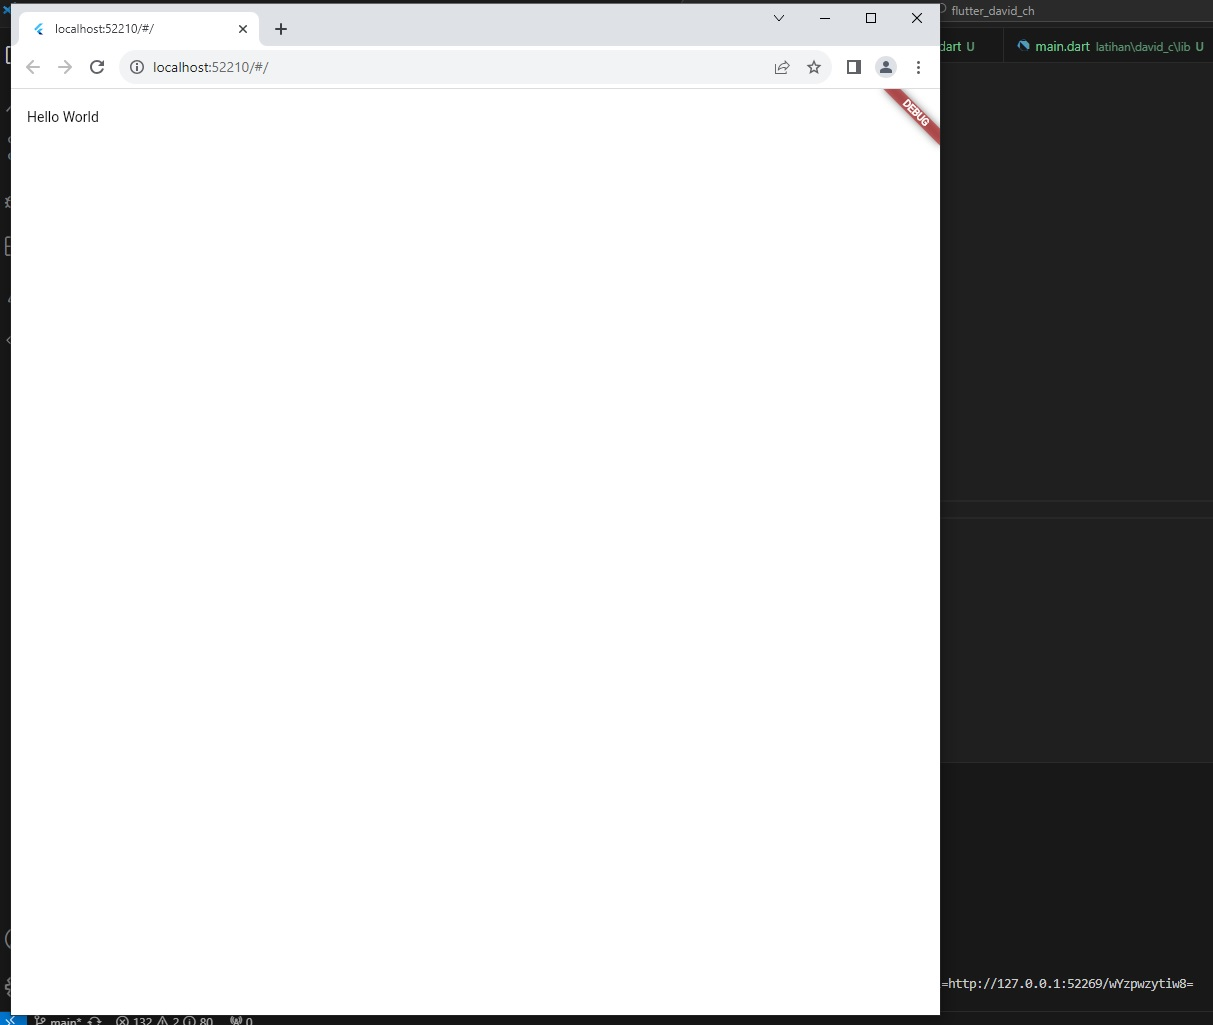
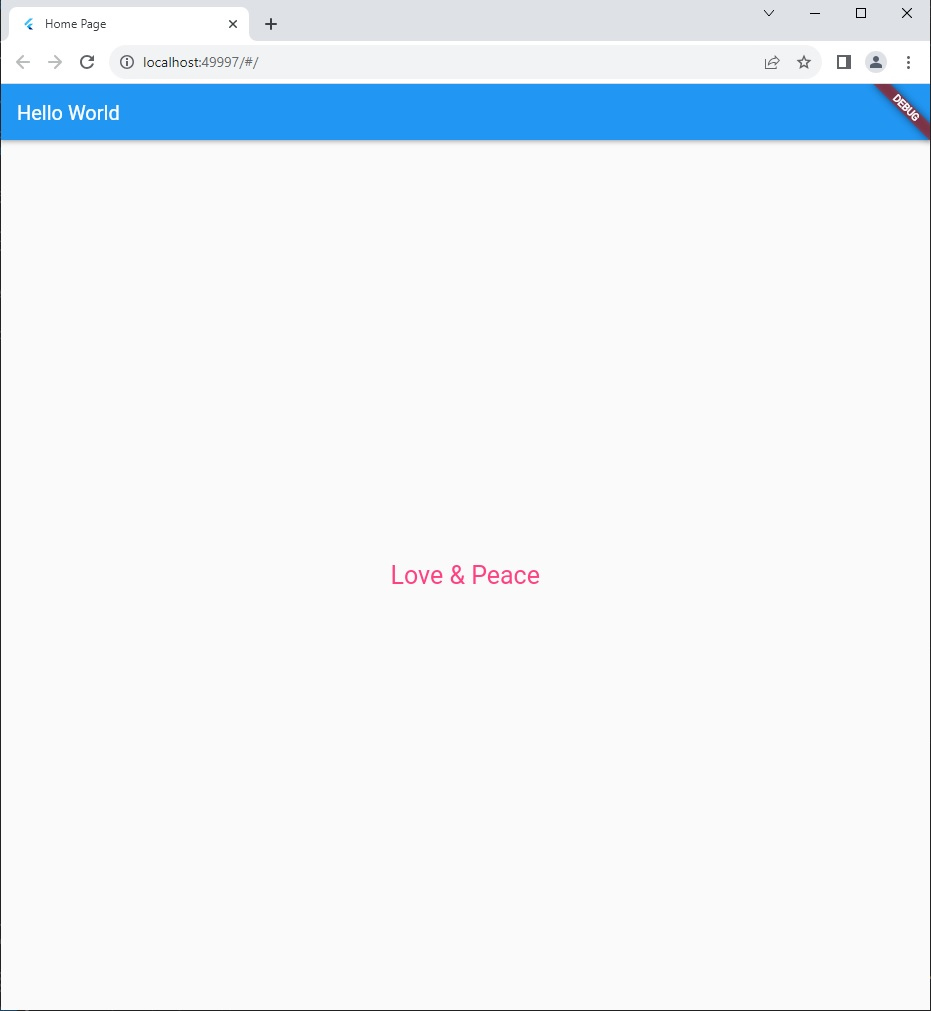
Update tugas Introduction Flutter Widget
menambahkan file dan SS tentang tugas Introduction Flutter Widget

Changed region(s): [[0.0, 0.0, 1.0, 1.0], [0.4049, 0.5519, 0.5918, 0.5826]]

diff --git a/08_Introduction Flutter Widget/praktikum/soal_prioritas_1/lib/main.dart b/08_Introduction Flutter Widget/praktikum/soal_prioritas_1/lib/main.dart
@@ -10,11 +10,19 @@ class MyHomePage extends StatelessWidget {
   @override
   Widget build(BuildContext context) {
     return MaterialApp(
-      home: AppBar(
-        title: const Text("Hello World"),
-        backgroundColor: Colors.white,
-        titleTextStyle: TextStyle(
-          color: Colors.black
+      title: "Home Page",
+      home: Scaffold(
+        appBar: AppBar(
+          title: Text("Hello World"),
+        ),
+        body: Center(
+          child: Text(
+            "Love & Peace",
+            style: TextStyle(
+              fontSize: 25.0,
+              color: Colors.pinkAccent
+            ),
+          ),
         ),
       ),
     );
